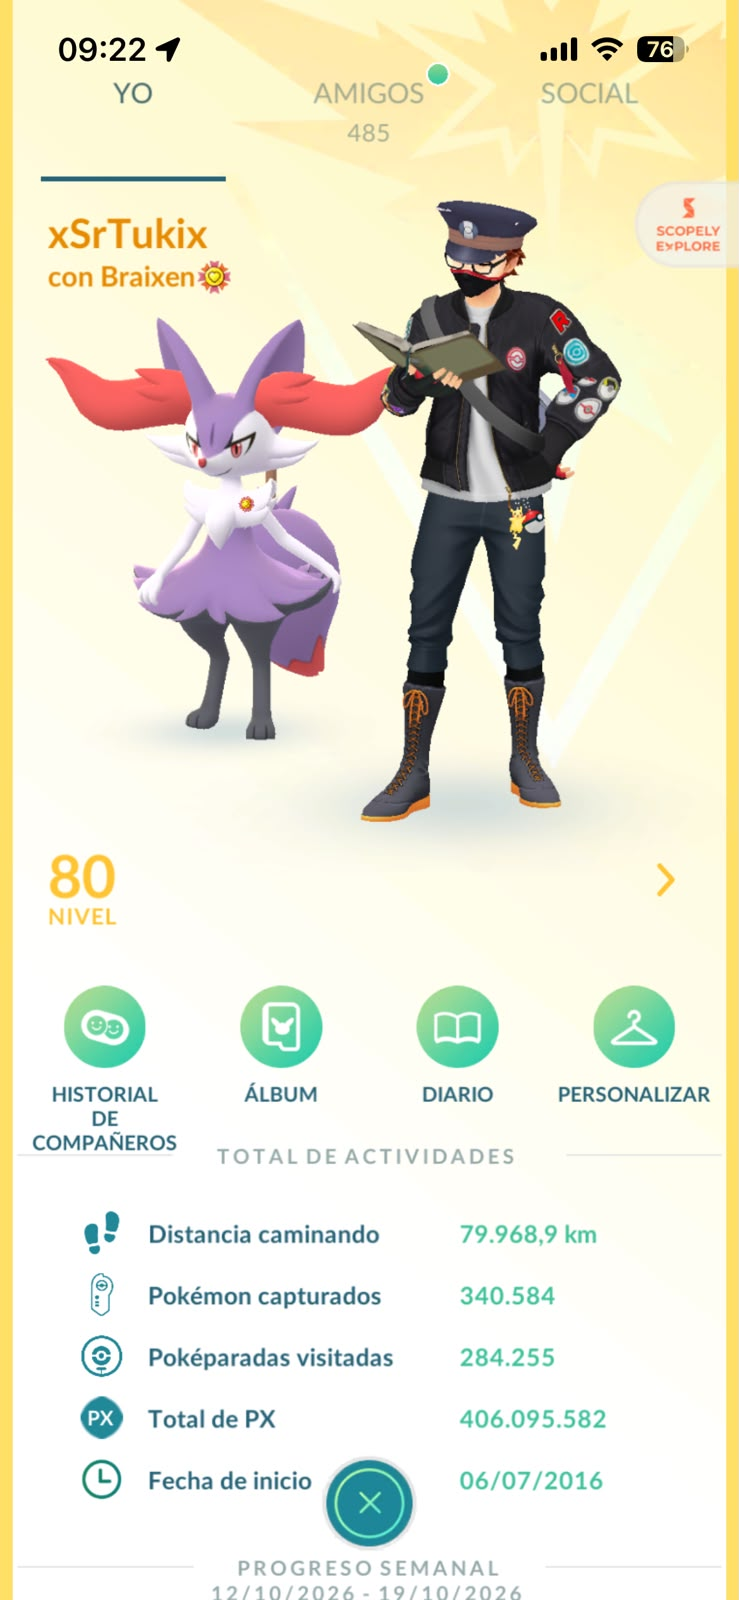
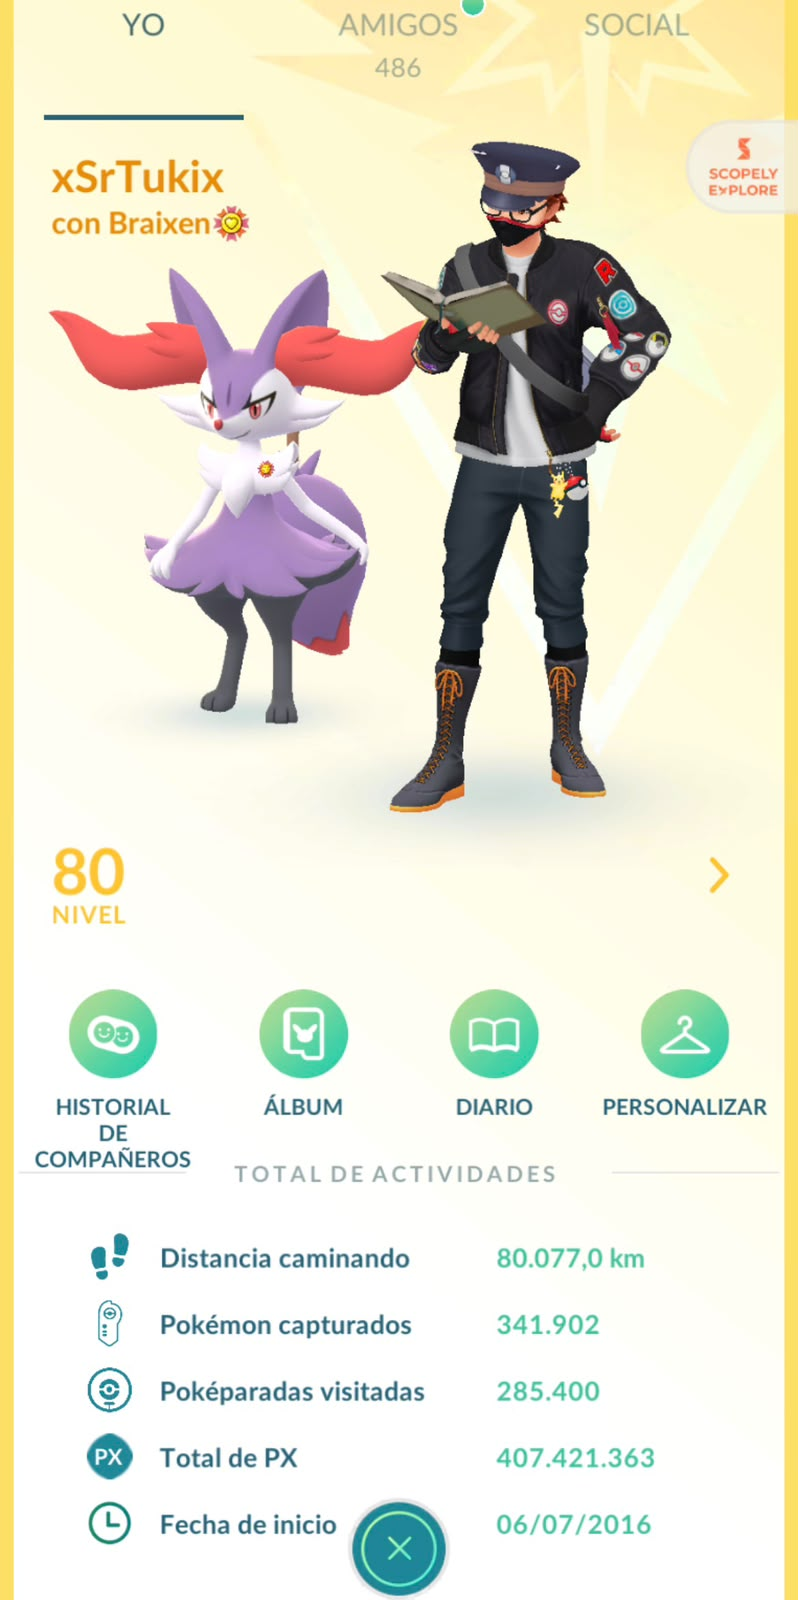
Actualizar perfil de Pokémon GO y mostrarlo primero en tarjetas

diff --git a/tarjetas.html b/tarjetas.html
@@ -113,13 +113,21 @@
 
       <div class="foto-principal">
         <button class="foto-galeria"
-          data-imagen="https://64.media.tumblr.com/tumblr_lrdn8pBXBs1r32rcso1_1280.jpg">
-          <img src="https://64.media.tumblr.com/tumblr_lrdn8pBXBs1r32rcso1_1280.jpg"
-            alt="Tarjeta de entrenador principal">
+          data-imagen="imagenes/tarjetas/pokemon-go-2026.jpeg?v=20261022-212349">
+          <img
+            src="imagenes/tarjetas/pokemon-go-2026.jpeg?v=20261022-212349"
+            alt="Perfil de entrenador de Pokémon GO de Sr.Tuki"
+            decoding="async">
         </button>
       </div>
 
       <div class="galeria-grid">
+
+        <button class="foto-galeria"
+          data-imagen="https://64.media.tumblr.com/tumblr_lrdn8pBXBs1r32rcso1_1280.jpg">
+          <img src="https://64.media.tumblr.com/tumblr_lrdn8pBXBs1r32rcso1_1280.jpg"
+            alt="Tarjeta de entrenador 1">
+        </button>
 
         <button class="foto-galeria"
           data-imagen="https://64.media.tumblr.com/tumblr_lrdn8pBXBs1r32rcso2_r1_1280.jpg">
@@ -208,16 +216,7 @@
 
       </div>
 
-      <div class="foto-principal foto-final">
-        <button class="foto-galeria"
-          data-imagen="imagenes/tarjetas/pokemon-go-2026.jpeg">
-          <img
-            src="imagenes/tarjetas/pokemon-go-2026.jpeg"
-            alt="Perfil de entrenador de Pokémon GO de Sr.Tuki"
-            loading="lazy"
-            decoding="async">
-        </button>
-      </div>
+
 
     </main>
 
